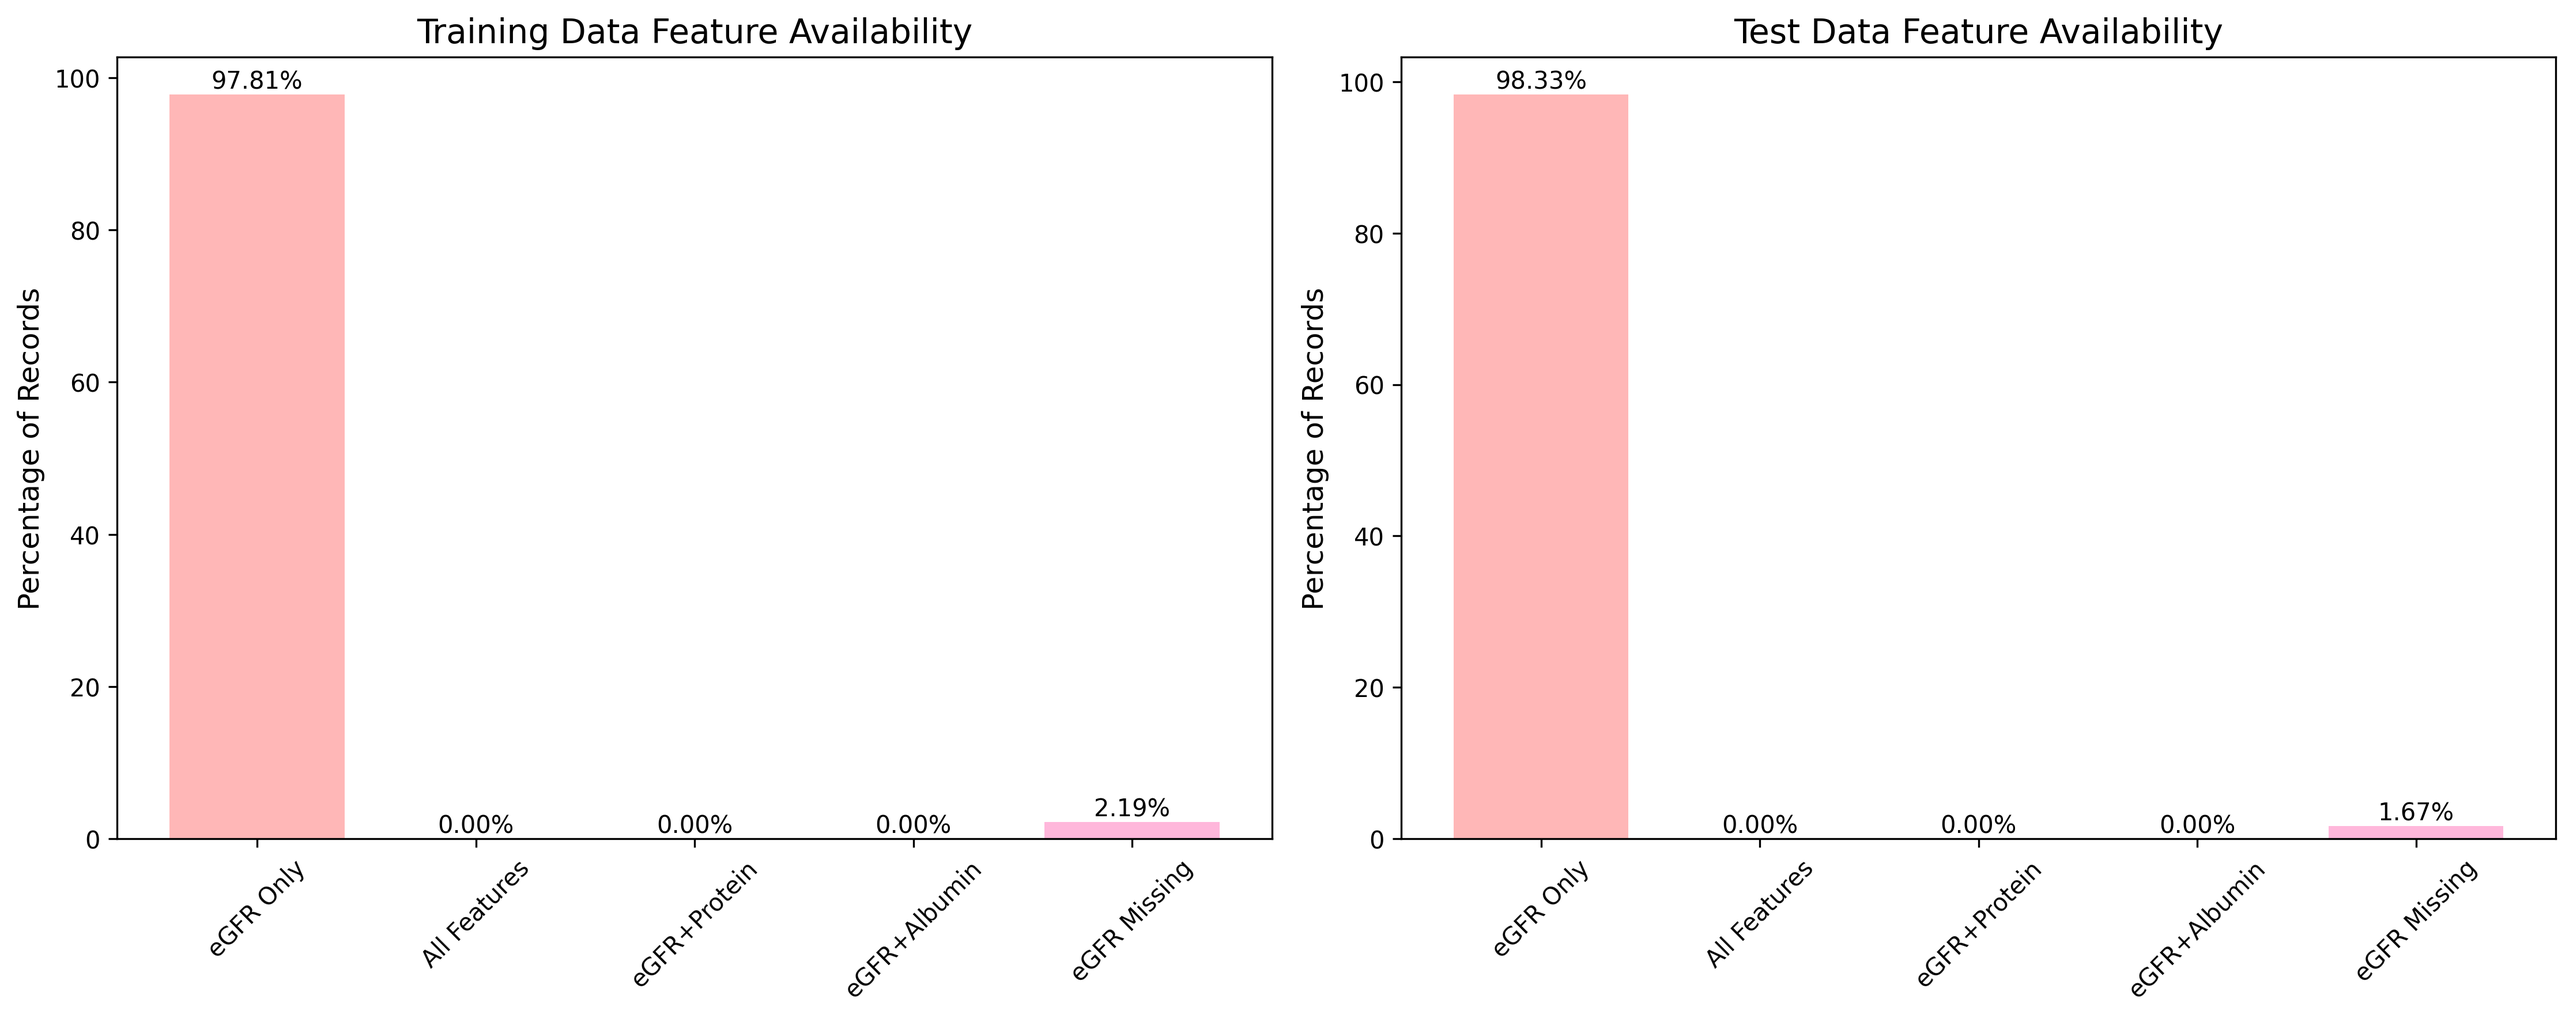
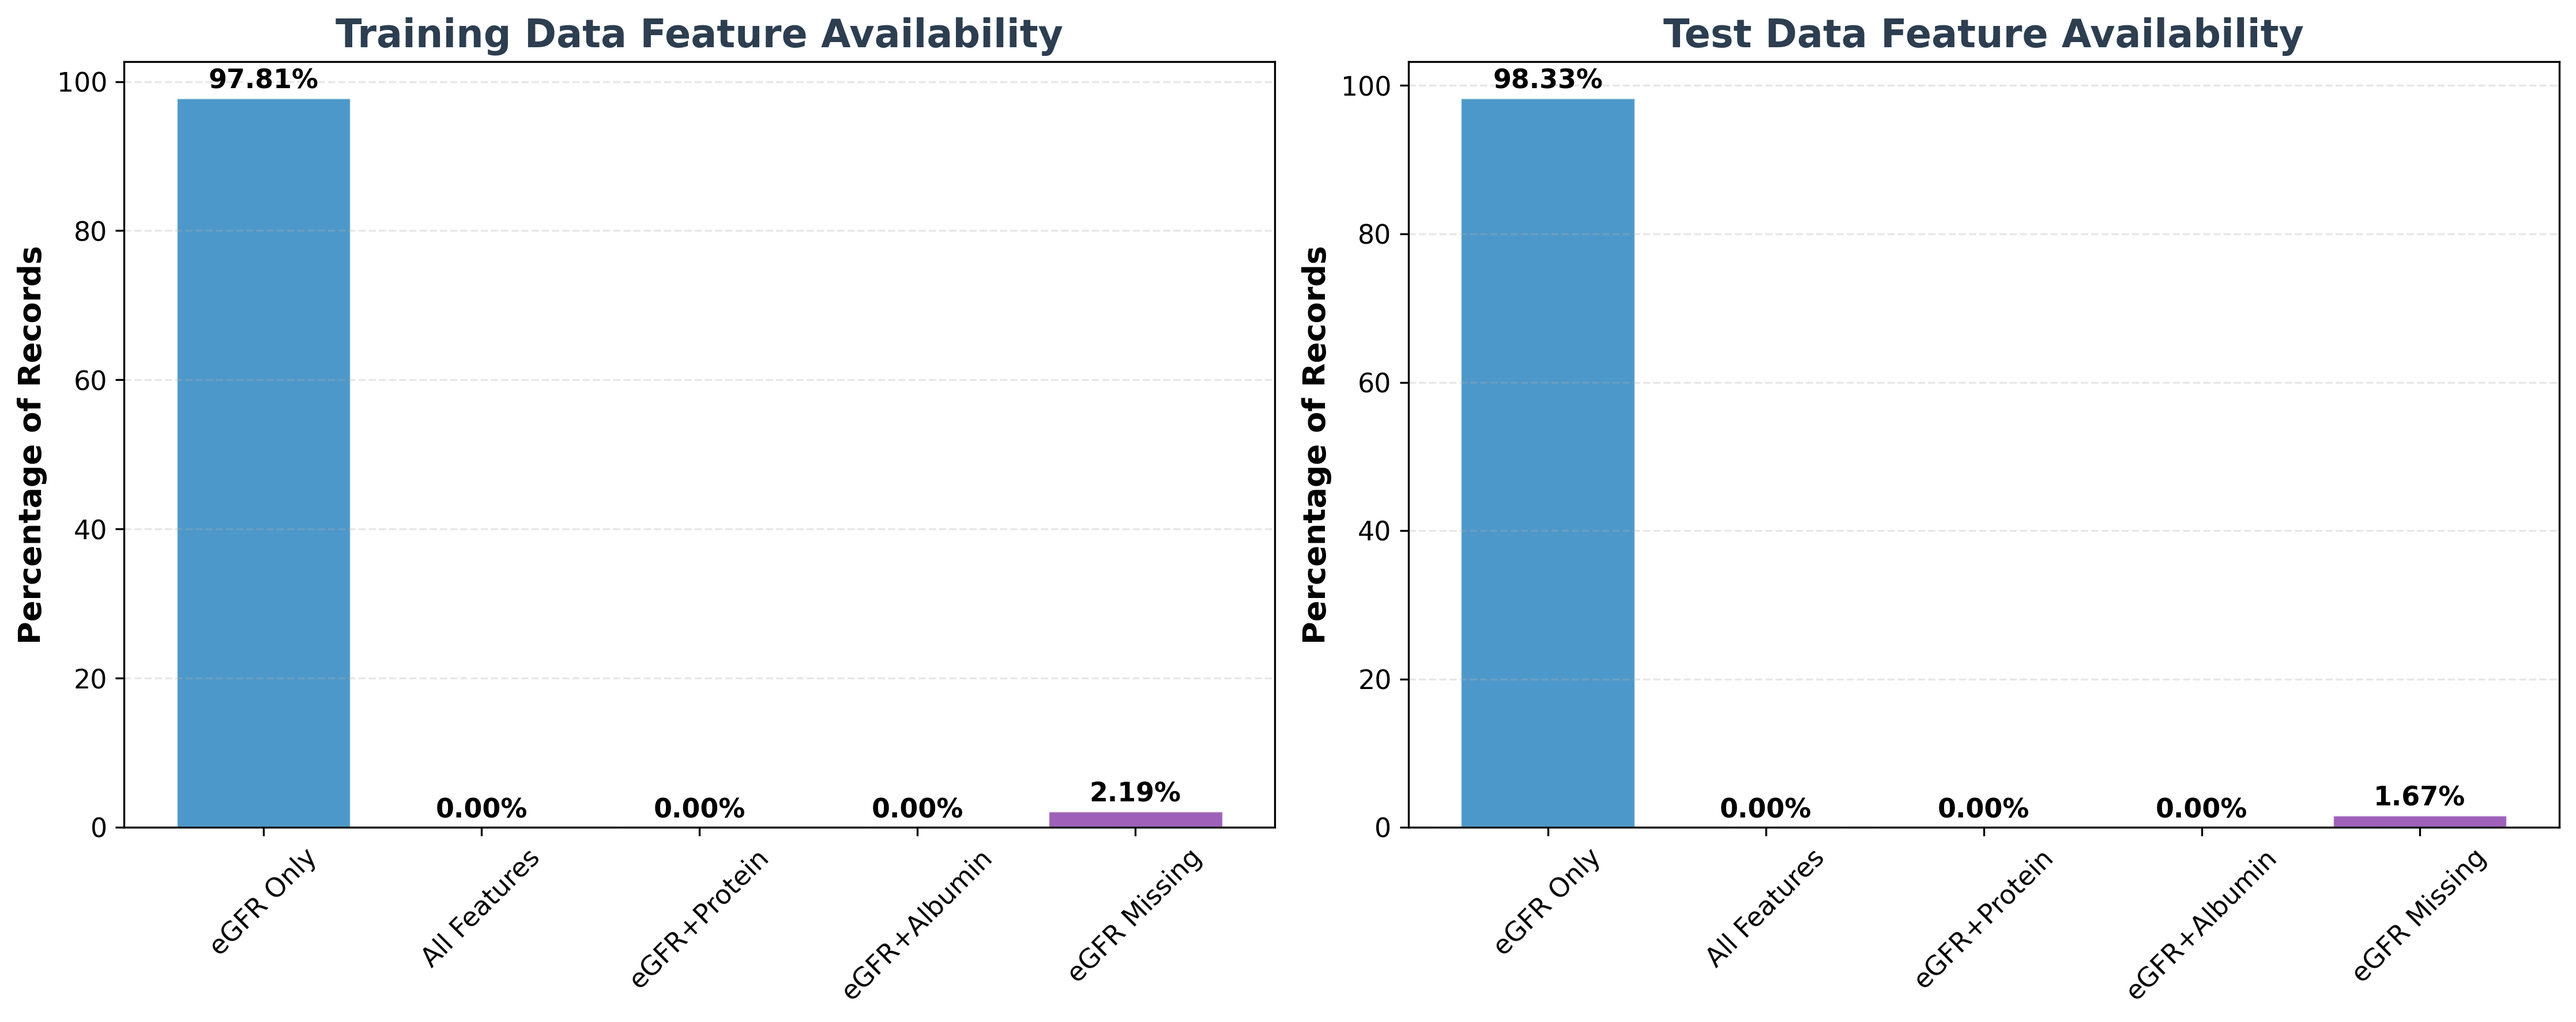
na

diff --git a/pkgs/scripts/comprehensive_feature_analysis.py b/pkgs/scripts/comprehensive_feature_analysis.py
@@ -12,14 +12,10 @@ warnings.filterwarnings('ignore')
 matplotlib.use('Agg')
 
 def analysis_1_feature_availability():
-    """
-    Analysis 1: Count percentages of different feature availability patterns
-    """
     print("=" * 80)
     print("ANALYSIS 1: FEATURE AVAILABILITY PATTERNS")
     print("=" * 80)
     
-    # Load heterogeneous datasets
     hg_train = pd.read_csv(heterogen_train_data_path)
     hg_test = pd.read_csv(heterogen_test_data_path)
     
@@ -29,27 +25,22 @@ def analysis_1_feature_availability():
         
         total_records = len(df)
         
-        # Pattern 1: eGFR present, both protein and albumin missing
         egfr_only = df[(df['egfr_missing'] == 0) & 
                        (df['protein_missing'] == 1) & 
                        (df['albumin_missing'] == 1)]
         
-        # Pattern 2: All features present
         all_features = df[(df['egfr_missing'] == 0) & 
                          (df['protein_missing'] == 0) & 
                          (df['albumin_missing'] == 0)]
         
-        # Pattern 3: eGFR + protein only
         egfr_protein = df[(df['egfr_missing'] == 0) & 
                          (df['protein_missing'] == 0) & 
                          (df['albumin_missing'] == 1)]
         
-        # Pattern 4: eGFR + albumin only  
         egfr_albumin = df[(df['egfr_missing'] == 0) & 
                          (df['protein_missing'] == 1) & 
                          (df['albumin_missing'] == 0)]
         
-        # Pattern 5: eGFR missing (any combination)
         egfr_missing = df[df['egfr_missing'] == 1]
         
         print(f"Total records: {total_records:,}")
@@ -59,7 +50,6 @@ def analysis_1_feature_availability():
         print(f"eGFR + albumin only: {len(egfr_albumin):,} ({len(egfr_albumin)/total_records*100:.2f}%)")
         print(f"eGFR missing: {len(egfr_missing):,} ({len(egfr_missing)/total_records*100:.2f}%)")
         
-        # Verify totals
         accounted_for = len(egfr_only) + len(all_features) + len(egfr_protein) + len(egfr_albumin) + len(egfr_missing)
         print(f"Verification: {accounted_for:,} / {total_records:,} records accounted for")
         
@@ -72,55 +62,49 @@ def analysis_1_feature_availability():
             'egfr_missing': len(egfr_missing)
         }
     
-    # Analyze both datasets
     train_stats = analyze_availability(hg_train, "TRAINING")
     test_stats = analyze_availability(hg_test, "TEST")
     
-    # Create visualization
     create_availability_visualization(train_stats, test_stats)
     
     return train_stats, test_stats
 
 def create_availability_visualization(train_stats, test_stats):
-    """Create visualization of feature availability patterns"""
-    
     _, (ax1, ax2) = plt.subplots(1, 2, figsize=(15, 6))
     
-    # Data for plotting
     categories = ['eGFR Only', 'All Features', 'eGFR+Protein', 'eGFR+Albumin', 'eGFR Missing']
     train_counts = [train_stats['egfr_only'], train_stats['all_features'], 
                    train_stats['egfr_protein'], train_stats['egfr_albumin'], train_stats['egfr_missing']]
     test_counts = [test_stats['egfr_only'], test_stats['all_features'], 
                   test_stats['egfr_protein'], test_stats['egfr_albumin'], test_stats['egfr_missing']]
     
-    # Convert to percentages
     train_pcts = [count/train_stats['total']*100 for count in train_counts]
     test_pcts = [count/test_stats['total']*100 for count in test_counts]
     
-    # Plot 1: Training data
-    colors = ['#ff9999', '#66b3ff', '#99ff99', '#ffcc99', '#ff99cc']
-    bars1 = ax1.bar(categories, train_pcts, color=colors, alpha=0.7)
-    ax1.set_title('Training Data Feature Availability', fontsize=14)
-    ax1.set_ylabel('Percentage of Records', fontsize=12)
-    ax1.tick_params(axis='x', rotation=45)
+    colors = ['#2E86C1', '#28B463', '#F39C12', '#E74C3C', '#8E44AD']
+    bars1 = ax1.bar(categories, train_pcts, color=colors, alpha=0.85, edgecolor='white', linewidth=0.8)
+    ax1.set_title('Training Data Feature Availability', fontsize=16, fontweight='bold', color='#2C3E50')
+    ax1.set_ylabel('Percentage of Records', fontsize=13, fontweight='bold')
+    ax1.tick_params(axis='x', rotation=45, labelsize=11)
+    ax1.tick_params(axis='y', labelsize=11)
+    ax1.grid(axis='y', alpha=0.3, linestyle='--')
     
-    # Add percentage labels on bars
     for bar, pct in zip(bars1, train_pcts):
         height = bar.get_height()
-        ax1.text(bar.get_x() + bar.get_width()/2., height + 0.1,
-                f'{pct:.2f}%', ha='center', va='bottom', fontsize=10)
+        ax1.text(bar.get_x() + bar.get_width()/2., height + 0.5,
+                f'{pct:.2f}%', ha='center', va='bottom', fontsize=11, fontweight='bold')
     
-    # Plot 2: Test data
-    bars2 = ax2.bar(categories, test_pcts, color=colors, alpha=0.7)
-    ax2.set_title('Test Data Feature Availability', fontsize=14)
-    ax2.set_ylabel('Percentage of Records', fontsize=12)
-    ax2.tick_params(axis='x', rotation=45)
+    bars2 = ax2.bar(categories, test_pcts, color=colors, alpha=0.85, edgecolor='white', linewidth=0.8)
+    ax2.set_title('Test Data Feature Availability', fontsize=16, fontweight='bold', color='#2C3E50')
+    ax2.set_ylabel('Percentage of Records', fontsize=13, fontweight='bold')
+    ax2.tick_params(axis='x', rotation=45, labelsize=11)
+    ax2.tick_params(axis='y', labelsize=11)
+    ax2.grid(axis='y', alpha=0.3, linestyle='--')
     
-    # Add percentage labels on bars
     for bar, pct in zip(bars2, test_pcts):
         height = bar.get_height()
-        ax2.text(bar.get_x() + bar.get_width()/2., height + 0.1,
-                f'{pct:.2f}%', ha='center', va='bottom', fontsize=10)
+        ax2.text(bar.get_x() + bar.get_width()/2., height + 0.5,
+                f'{pct:.2f}%', ha='center', va='bottom', fontsize=11, fontweight='bold')
     
     plt.tight_layout()
     plt.savefig(f'{generate_data_path_latest_rep}/feature_availability_analysis.png', dpi=300, bbox_inches='tight')
@@ -128,26 +112,19 @@ def create_availability_visualization(train_stats, test_stats):
     plt.close()
 
 def analysis_2_feature_importance():
-    """
-    Analysis 2: Feature importance analysis for both setups
-    """
     print("\n" + "=" * 80)
     print("ANALYSIS 2: FEATURE IMPORTANCE ANALYSIS")
     print("=" * 80)
     
-    # Load both datasets
     egfr_train = pd.read_csv(egfr_tv_train_data_path)
     egfr_test = pd.read_csv(egfr_tv_test_data_path)
     hg_train = pd.read_csv(heterogen_train_data_path)
     hg_test = pd.read_csv(heterogen_test_data_path)
     
     def prepare_egfr_data(train_df, test_df):
-        """Prepare eGFR TV data for analysis"""
-        # Use only non-missing eGFR data with actual features only
         train_clean = train_df.dropna(subset=['egfr']).copy()
         test_clean = test_df.dropna(subset=['egfr']).copy()
         
-        # Use only the actual features present in the dataset
         feature_cols = ['egfr', 'duration_in_days']
         
         X_train = train_clean[feature_cols]
@@ -158,12 +135,9 @@ def analysis_2_feature_importance():
         return X_train, y_train, X_test, y_test, feature_cols
     
     def prepare_heterogen_data(train_df, test_df):
-        """Prepare heterogeneous data for analysis"""
-        # Fill missing values with 0 and use missing indicators as features
         train_prep = train_df.copy()
         test_prep = test_df.copy()
         
-        # Use only the actual features from the dataset (no artificial transformations)
         feature_cols = ['egfr', 'protein', 'albumin', 'egfr_missing', 'protein_missing', 
                        'albumin_missing', 'duration_in_days']
         
@@ -173,32 +147,20 @@ def analysis_2_feature_importance():
         y_test = test_prep['has_esrd']
         
         return X_train, y_train, X_test, y_test, feature_cols
-        
-        X_train = train_prep[feature_cols]
-        y_train = train_prep['has_esrd']
-        X_test = test_prep[feature_cols]
-        y_test = test_prep['has_esrd']
-        
-        return X_train, y_train, X_test, y_test, feature_cols
     
     def train_and_analyze_rf(X_train, y_train, X_test, y_test, feature_cols, setup_name):
-        """Train Random Forest and analyze feature importance"""
         print(f"\n{setup_name} SETUP:")
         print("-" * 50)
         
-        # Standardize features
         scaler = StandardScaler()
         X_train_scaled = scaler.fit_transform(X_train)
         X_test_scaled = scaler.transform(X_test)
         
-        # Train Random Forest
         rf = RandomForestClassifier(n_estimators=100, random_state=42, class_weight='balanced')
         rf.fit(X_train_scaled, y_train)
         
-        # Get predictions
         train_pred = rf.predict(X_test_scaled)
         
-        # Feature importance
         importance_scores = rf.feature_importances_
         feature_importance = pd.DataFrame({
             'Feature': feature_cols,
@@ -211,7 +173,6 @@ def analysis_2_feature_importance():
         for _, row in feature_importance.head(10).iterrows():
             print(f"  {row['Feature']}: {row['Importance']:.4f}")
         
-        # Model performance
         from sklearn.metrics import classification_report, roc_auc_score
         try:
             auc_score = roc_auc_score(y_test, rf.predict_proba(X_test_scaled)[:, 1])
@@ -221,57 +182,54 @@ def analysis_2_feature_importance():
         
         return feature_importance, rf
     
-    # Analyze eGFR TV setup
     X_train_egfr, y_train_egfr, X_test_egfr, y_test_egfr, feature_cols_egfr = prepare_egfr_data(egfr_train, egfr_test)
     importance_egfr, rf_egfr = train_and_analyze_rf(X_train_egfr, y_train_egfr, X_test_egfr, y_test_egfr, 
                                                    feature_cols_egfr, "eGFR TIME-VARIANT")
     
-    # Analyze heterogeneous setup
     X_train_hg, y_train_hg, X_test_hg, y_test_hg, feature_cols_hg = prepare_heterogen_data(hg_train, hg_test)
     importance_hg, rf_hg = train_and_analyze_rf(X_train_hg, y_train_hg, X_test_hg, y_test_hg, 
                                                feature_cols_hg, "HETEROGENEOUS")
     
-    # Create comparison visualization
     create_importance_visualization(importance_egfr, importance_hg)
     
     return importance_egfr, importance_hg
 
 def create_importance_visualization(importance_egfr, importance_hg):
-    """Create visualization comparing feature importances"""
-    
     fig, (ax1, ax2) = plt.subplots(1, 2, figsize=(16, 8))
     
-    # Plot 1: eGFR TV importance
-    top_features_egfr = importance_egfr.head(8)
-    bars1 = ax1.barh(range(len(top_features_egfr)), top_features_egfr['Importance'], 
-                     color='skyblue', alpha=0.8)
-    ax1.set_yticks(range(len(top_features_egfr)))
-    ax1.set_yticklabels(top_features_egfr['Feature'])
-    ax1.set_xlabel('Feature Importance')
-    ax1.set_title('eGFR Time-Variant Setup\nFeature Importance', fontsize=14)
-    ax1.invert_yaxis()
+    fig.patch.set_facecolor('white')
     
-    # Add value labels
+    top_features_egfr = importance_egfr.head(8)
+    colors_egfr = plt.cm.viridis(np.linspace(0.2, 0.8, len(top_features_egfr)))
+    bars1 = ax1.barh(range(len(top_features_egfr)), top_features_egfr['Importance'], 
+                     color=colors_egfr, alpha=0.9, edgecolor='white', linewidth=1)
+    ax1.set_yticks(range(len(top_features_egfr)))
+    ax1.set_yticklabels(top_features_egfr['Feature'], fontsize=12, fontweight='bold')
+    ax1.set_xlabel('Feature Importance', fontsize=13, fontweight='bold')
+    ax1.set_title('eGFR Time-Variant Setup\nFeature Importance', fontsize=16, fontweight='bold', color='#2C3E50')
+    ax1.invert_yaxis()
+    ax1.grid(axis='x', alpha=0.3, linestyle='--')
+    
     for i, bar in enumerate(bars1):
         width = bar.get_width()
-        ax1.text(width + 0.001, bar.get_y() + bar.get_height()/2, 
-                f'{width:.3f}', ha='left', va='center', fontsize=10)
+        ax1.text(width + 0.005, bar.get_y() + bar.get_height()/2, 
+                f'{width:.3f}', ha='left', va='center', fontsize=11, fontweight='bold')
     
-    # Plot 2: Heterogeneous importance
     top_features_hg = importance_hg.head(10)
+    colors_hg = plt.cm.plasma(np.linspace(0.1, 0.7, len(top_features_hg)))
     bars2 = ax2.barh(range(len(top_features_hg)), top_features_hg['Importance'], 
-                     color='lightcoral', alpha=0.8)
+                     color=colors_hg, alpha=0.9, edgecolor='white', linewidth=1)
     ax2.set_yticks(range(len(top_features_hg)))
-    ax2.set_yticklabels(top_features_hg['Feature'])
-    ax2.set_xlabel('Feature Importance')
-    ax2.set_title('Heterogeneous Setup\nFeature Importance', fontsize=14)
+    ax2.set_yticklabels(top_features_hg['Feature'], fontsize=12, fontweight='bold')
+    ax2.set_xlabel('Feature Importance', fontsize=13, fontweight='bold')
+    ax2.set_title('Heterogeneous Setup\nFeature Importance', fontsize=16, fontweight='bold', color='#2C3E50')
     ax2.invert_yaxis()
+    ax2.grid(axis='x', alpha=0.3, linestyle='--')
     
-    # Add value labels
     for i, bar in enumerate(bars2):
         width = bar.get_width()
-        ax2.text(width + 0.001, bar.get_y() + bar.get_height()/2, 
-                f'{width:.3f}', ha='left', va='center', fontsize=10)
+        ax2.text(width + 0.005, bar.get_y() + bar.get_height()/2, 
+                f'{width:.3f}', ha='left', va='center', fontsize=11, fontweight='bold')
     
     plt.tight_layout()
     plt.savefig(f'{generate_data_path_latest_rep}/feature_importance_comparison.png', dpi=300, bbox_inches='tight')
@@ -279,8 +237,6 @@ def create_importance_visualization(importance_egfr, importance_hg):
     plt.close()
 
 def main():
-    """Run both analyses"""
-    # Create output file
     output_file = f'{generate_data_path_latest_rep}/comprehensive_feature_analysis_report.txt'
     
     with open(output_file, 'w') as f:
@@ -289,12 +245,10 @@ def main():
         f.write(f"Generated on: {pd.Timestamp.now().strftime('%Y-%m-%d %H:%M:%S')}\n")
         f.write("=" * 80 + "\n\n")
         
-        # Analysis 1: Feature availability patterns
         f.write("ANALYSIS 1: FEATURE AVAILABILITY PATTERNS\n")
         f.write("=" * 80 + "\n")
         train_stats, test_stats = analysis_1_feature_availability()
         
-        # Write feature availability results
         f.write("\nTRAINING Dataset:\n")
         f.write("-" * 40 + "\n")
         f.write(f"Total records: {train_stats['total']:,}\n")
@@ -313,7 +267,6 @@ def main():
         f.write(f"eGFR + albumin only: {test_stats['egfr_albumin']:,} ({test_stats['egfr_albumin']/test_stats['total']*100:.2f}%)\n")
         f.write(f"eGFR missing: {test_stats['egfr_missing']:,} ({test_stats['egfr_missing']/test_stats['total']*100:.2f}%)\n")
         
-        # Analysis 2: Feature importance analysis  
         f.write("\n" + "=" * 80 + "\n")
         f.write("ANALYSIS 2: FEATURE IMPORTANCE ANALYSIS\n")
         f.write("=" * 80 + "\n")
@@ -331,7 +284,6 @@ def main():
         for _, row in importance_hg.head(10).iterrows():
             f.write(f"  {row['Feature']}: {row['Importance']:.4f}\n")
         
-        # Summary insights
         f.write("\n" + "=" * 80 + "\n")
         f.write("KEY INSIGHTS SUMMARY\n")
         f.write("=" * 80 + "\n")
@@ -348,7 +300,6 @@ def main():
         f.write(f"   - eGFR TV setup: Top feature is '{importance_egfr.iloc[0]['Feature']}' ({importance_egfr.iloc[0]['Importance']:.3f})\n")
         f.write(f"   - Heterogeneous setup: Top feature is '{importance_hg.iloc[0]['Feature']}' ({importance_hg.iloc[0]['Importance']:.3f})\n")
         
-        # Check importance of protein/albumin features
         protein_importance = importance_hg[importance_hg['Feature'].str.contains('protein', case=False)]
         albumin_importance = importance_hg[importance_hg['Feature'].str.contains('albumin', case=False)]
         
